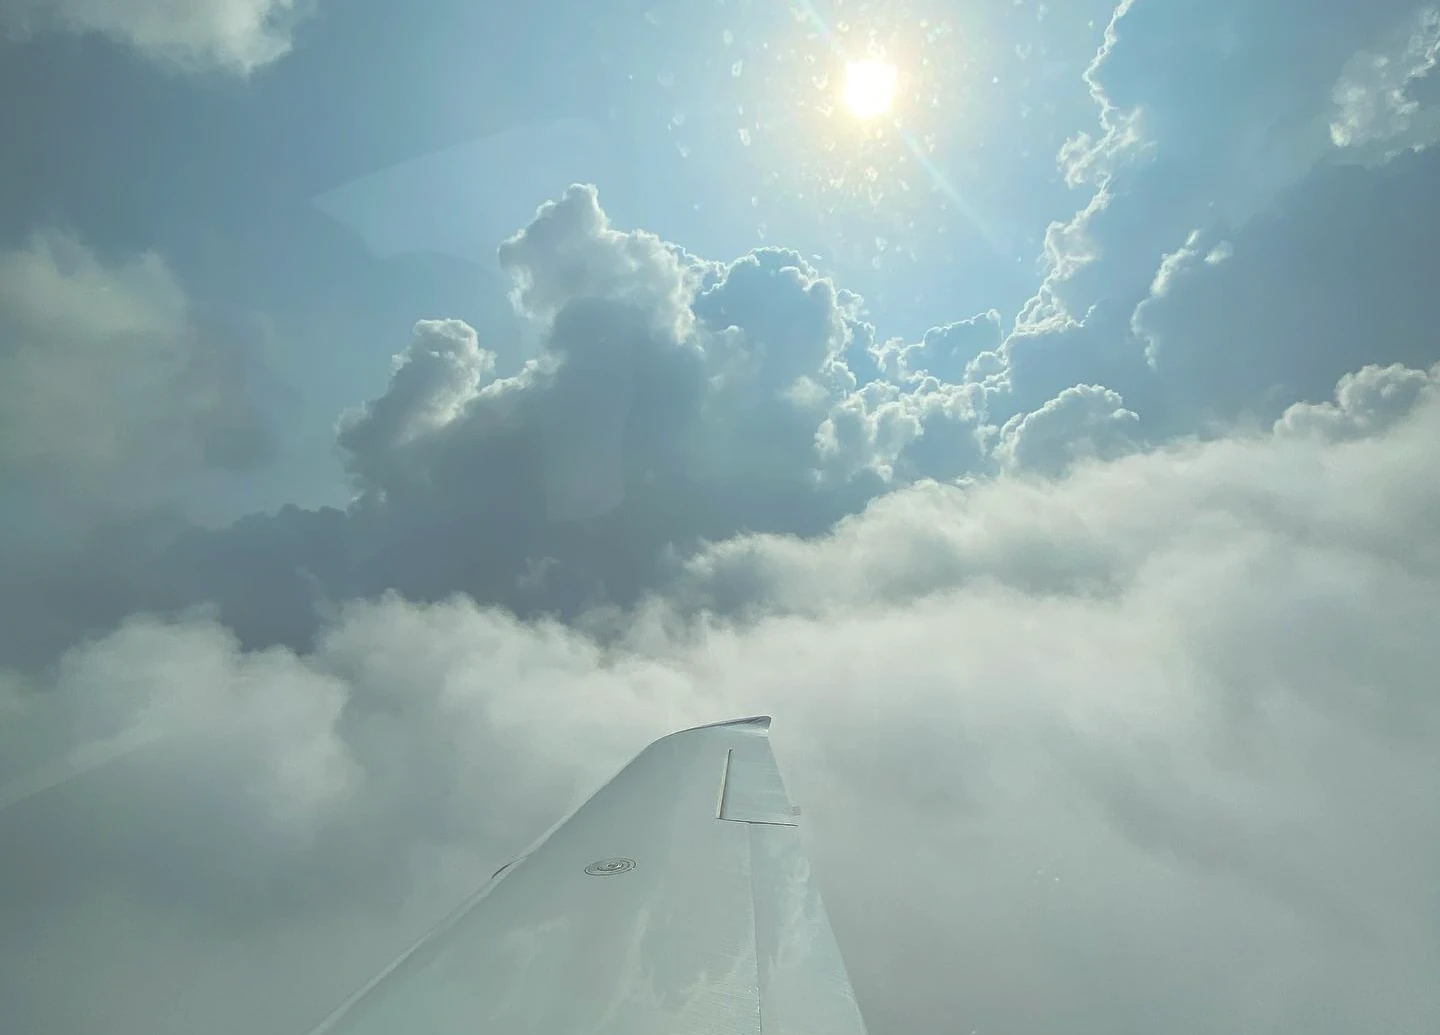
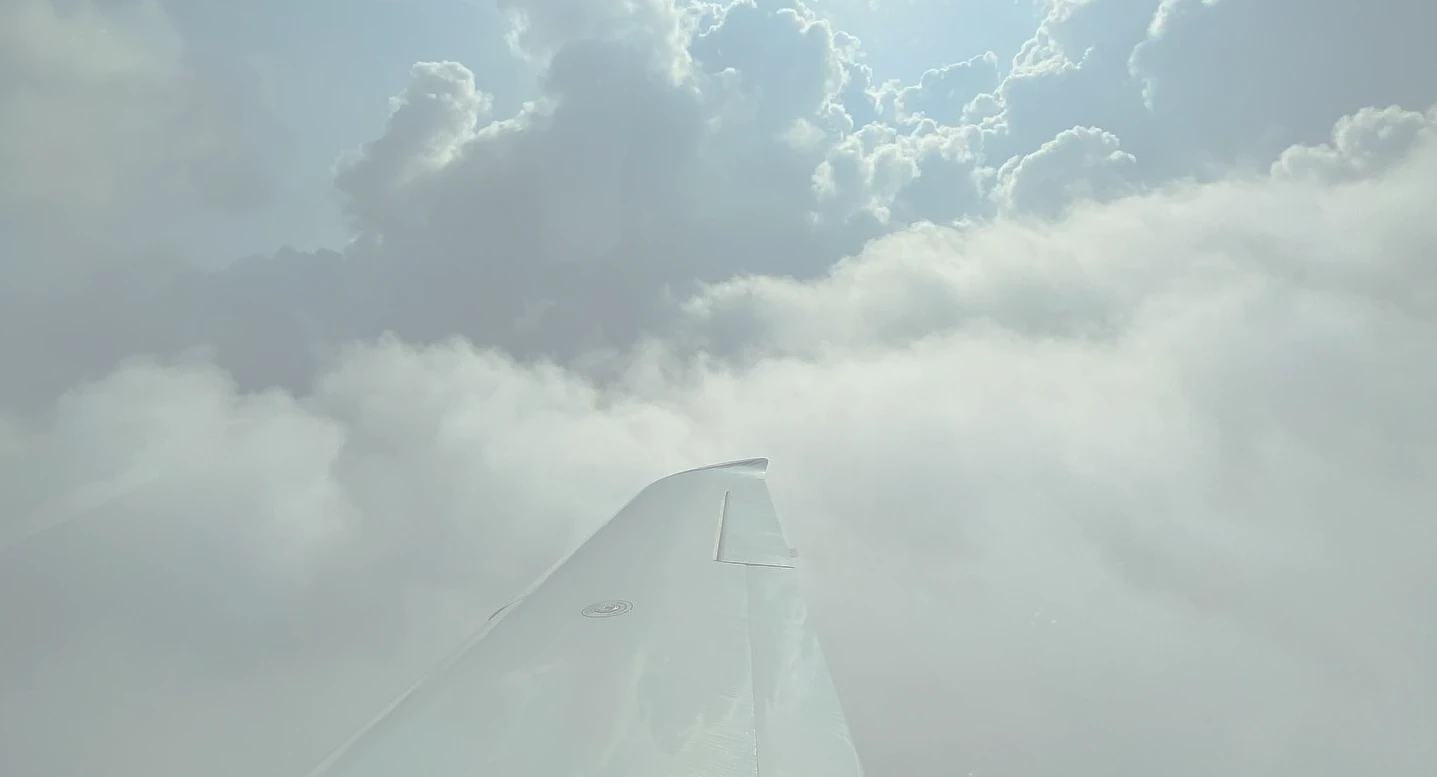
do the header and add new image

diff --git a/config/tailwind.config.js b/config/tailwind.config.js
@@ -114,6 +114,7 @@ module.exports = {
         'pilot-thumbs' : "url('pilot_thumbs.webp')",
         'hangarbg' : "url('hangarbg.webp')",   
         'ifr-flight' : "url('ifr_flight.webp')",
+        'ifr-flight2' : "url('flying-in-clouds.webp')",
       },
       height: theme => ({
         'screen-1/2': '50vh',
